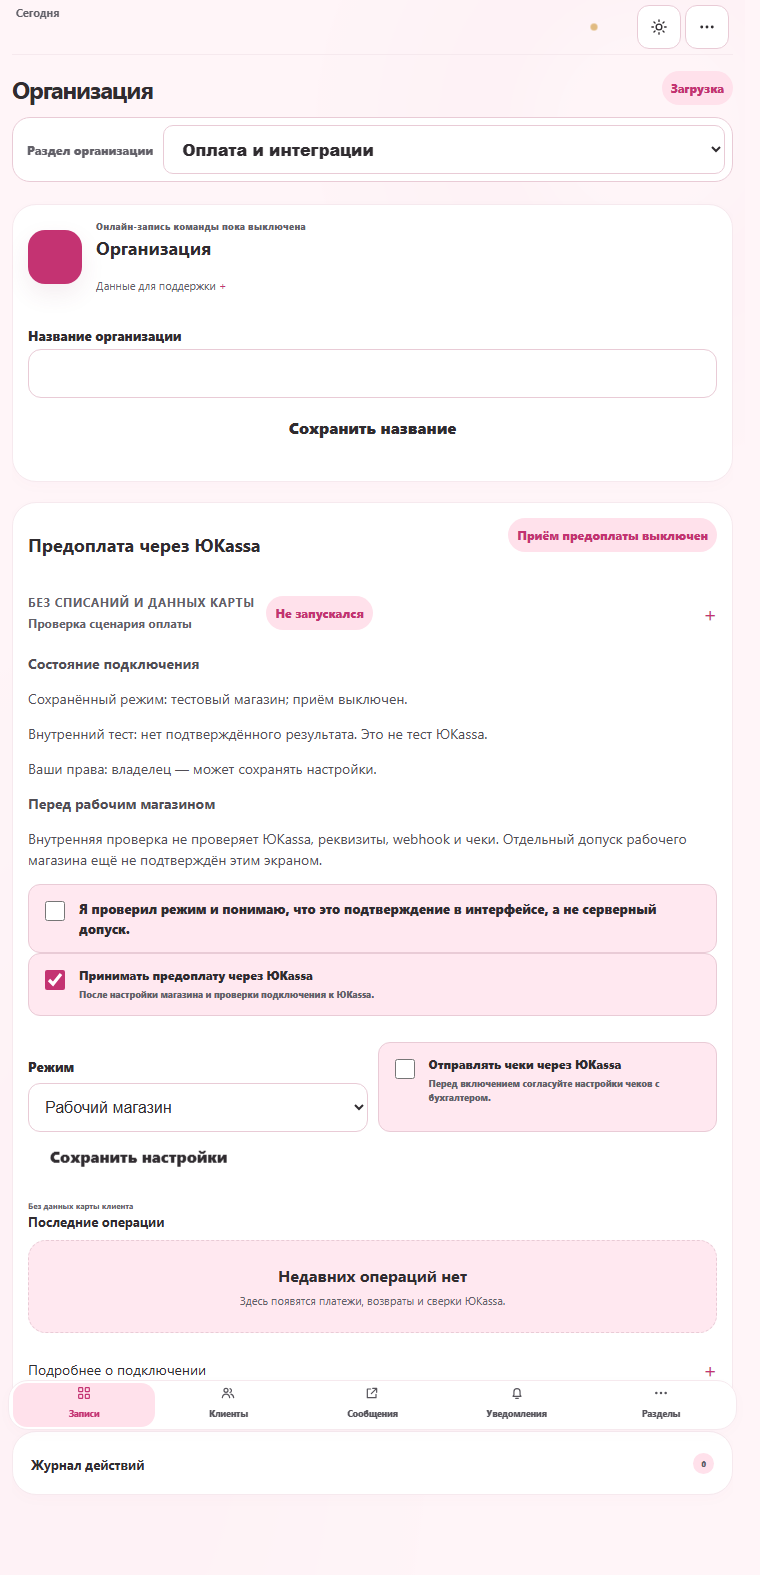
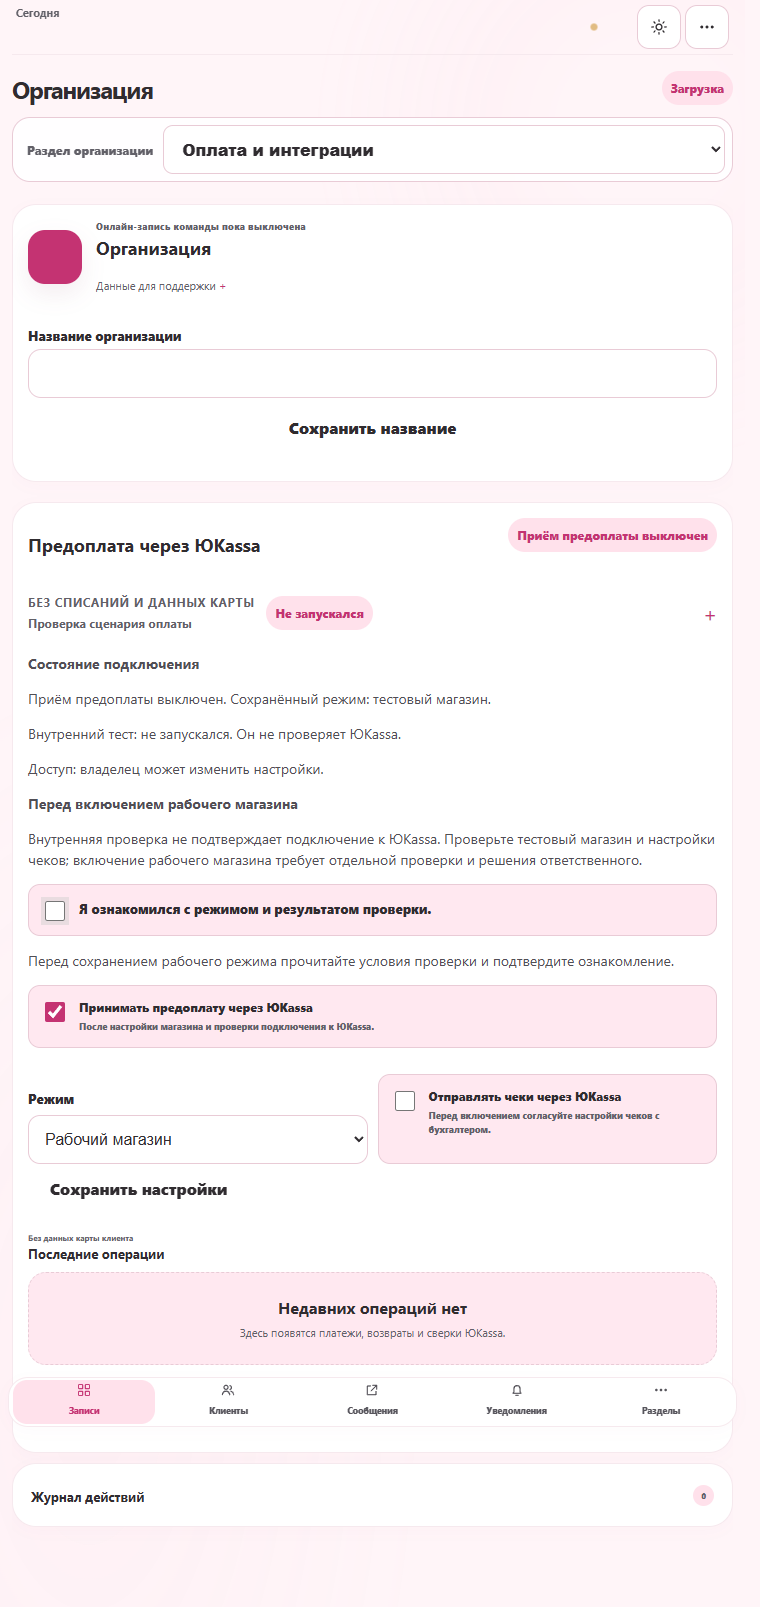
fix(pro): move payment review outside core cache

diff --git a/minuta-online-booking/payment-management.js b/minuta-online-booking/payment-management.js
@@ -483,7 +483,6 @@
           ? 'Не удалось сохранить защиту от повторного запуска. Освободите хранилище браузера и повторите.'
           : sandboxAvailable === false ? 'Контур появится после безопасного обновления базы.'
             : 'Не удалось проверить журнал. Рабочие платежи и записи продолжают работать.';
-        renderPaymentReview();
         return;
       }
       const bookings = sandboxBookings();
@@ -506,7 +505,6 @@
         if ($('#paymentSandboxHelp')) $('#paymentSandboxHelp').textContent = bookings.length
           ? 'Проверка проходит внутри Eldion Pro. ЮKassa и банк не участвуют; клиент не получит уведомление.'
           : 'Нет доступных записей для проверки. Подходят записи текущего специалиста в этой организации, кроме отменённых и блокировок расписания.';
-        renderPaymentReview();
         return;
       }
       const remaining = Number(sandboxState.capturedMinor) - Number(sandboxState.refundedMinor);
@@ -534,7 +532,6 @@
         $('#paymentSandboxRefundAmount').max = minorInputValue(remaining);
         if (!$('#paymentSandboxRefundAmount').value) $('#paymentSandboxRefundAmount').value = minorInputValue(remaining);
       }
-      renderPaymentReview();
     }
     async function loadSandbox() {
       if (!organization?.id || !manager()) return;
@@ -711,29 +708,6 @@
     function refundStatusLabel(value) {
       return ({ creating:'создаётся', pending:'в обработке', succeeded:'выполнено', canceled:'отменено', failed:'ошибка' })[value] || value || '—';
     }
-    function renderPaymentReview() {
-      const form = $('#paymentProviderSettingsForm');
-      if (!form) return;
-      let review = $('#paymentProviderReview');
-      if (!review) {
-        review = document.createElement('section');
-        review.id = 'paymentProviderReview';
-        review.className = 'organization-invite-help';
-        review.setAttribute('aria-live', 'polite');
-        review.innerHTML = '<strong>Состояние подключения</strong><p id="paymentProviderReviewMode"></p><p id="paymentProviderReviewTest"></p><p id="paymentProviderReviewRights"></p><div id="paymentProviderProductionReview" hidden><strong>Перед рабочим магазином</strong><p>Внутренняя проверка не проверяет ЮKassa, реквизиты, webhook и чеки. Отдельный допуск рабочего магазина ещё не подтверждён этим экраном.</p><label class="settings-check"><input id="paymentProviderProductionAcknowledged" type="checkbox"><span>Я проверил режим и понимаю, что это подтверждение в интерфейсе, а не серверный допуск.</span></label></div>';
-        form.before(review);
-      }
-      const settings = payload?.settings || {};
-      $('#paymentProviderReviewMode').textContent = `Сохранённый режим: ${settings.environment === 'production' ? 'рабочий' : 'тестовый'} магазин; приём ${settings.enabled ? 'включён' : 'выключен'}.`;
-      const sandboxResult = sandboxState && sandboxAvailable === true && !sandboxStorageFailed
-        ? sandboxStatusLabel(sandboxState.status)
-        : sandboxReference?.pending ? 'результат проверяется' : 'нет подтверждённого результата';
-      $('#paymentProviderReviewTest').textContent = `Внутренний тест: ${sandboxResult}. Это не тест ЮKassa.`;
-      $('#paymentProviderReviewRights').textContent = `Ваши права: ${owner() ? 'владелец — может сохранять настройки' : 'администратор — просмотр без сохранения настроек'}.`;
-      const productionReview = $('#paymentProviderProductionReview');
-      productionReview.hidden = !owner() || $('#paymentProviderEnvironment')?.value !== 'production';
-      if (productionReview.hidden) $('#paymentProviderProductionAcknowledged').checked = false;
-    }
     function render(error = null) {
       const panel = $('#paymentProviderPanel');
       if (!panel) return;
@@ -838,6 +812,7 @@
       if (event.target.id === 'paymentProviderSettingsForm') {
         event.preventDefault();
         if (!organization || !owner() || busy || !requireWrites()) return;
+        const isCurrent = beginOperation();
         const fiscal = $('#paymentFiscalizationEnabled').checked;
         const expected = {
           enabled:$('#paymentProviderEnabled').checked,
@@ -847,12 +822,6 @@
           vat_code:fiscal ? Number($('#paymentVatCode').value) : null,
           payment_mode:fiscal ? $('#paymentMode').value : null
         };
-        if (expected.environment === 'production' && !$('#paymentProviderProductionAcknowledged')?.checked) {
-          renderPaymentReview();
-          notify('Перед сохранением рабочего режима прочитайте review и подтвердите его. Внутренний тест не подтверждает готовность ЮKassa.');
-          return;
-        }
-        const isCurrent = beginOperation();
         try {
           const result = await db.rpc('set_minuta_yookassa_settings', {
             p_organization:organization.id,
@@ -992,7 +961,6 @@
     }
     function change(event) {
       if (event.target.id === 'paymentFiscalizationEnabled' || event.target.id === 'paymentRefundAttempt') updateRefundAmount();
-      if (event.target.id === 'paymentProviderEnvironment') renderPaymentReview();
       if (event.target.id === 'paymentSandboxBooking') {
         const booking = sandboxBookings().find(item => item.id === event.target.value);
         if ($('#paymentSandboxAmount')) $('#paymentSandboxAmount').value = String(Math.max(1, booking?.totalPriceRub || 1));

diff --git a/minuta-online-booking/payment-review.js b/minuta-online-booking/payment-review.js
@@ -1,0 +1,59 @@
+(function () {
+  'use strict';
+
+  function init() {
+    const panel = document.querySelector('#paymentProviderPanel');
+    const form = document.querySelector('#paymentProviderSettingsForm');
+    const workspace = document.querySelector('#paymentProviderWorkspace');
+    const environment = document.querySelector('#paymentProviderEnvironment');
+    const providerState = document.querySelector('#paymentProviderState');
+    const sandboxState = document.querySelector('#paymentSandboxState');
+    if (!panel || !form || !workspace || !environment || !providerState || !sandboxState) return;
+
+    const review = document.createElement('section');
+    review.id = 'paymentProviderReview';
+    review.className = 'organization-invite-help';
+    review.setAttribute('aria-live', 'polite');
+    review.innerHTML = '<strong>Состояние подключения</strong><p id="paymentProviderReviewMode"></p><p id="paymentProviderReviewTest"></p><p id="paymentProviderReviewRights"></p><div id="paymentProviderProductionReview" hidden><strong>Перед включением рабочего магазина</strong><p>Внутренняя проверка не подтверждает подключение к ЮKassa. Проверьте тестовый магазин и настройки чеков; включение рабочего магазина требует отдельной проверки и решения ответственного.</p><label class="settings-check"><input id="paymentProviderProductionAcknowledged" type="checkbox"><span>Я ознакомился с режимом и результатом проверки.</span></label><p id="paymentProviderReviewNotice" role="status"></p></div>';
+    form.before(review);
+    const mode = review.querySelector('#paymentProviderReviewMode');
+    const test = review.querySelector('#paymentProviderReviewTest');
+    const rights = review.querySelector('#paymentProviderReviewRights');
+    const production = review.querySelector('#paymentProviderProductionReview');
+    const acknowledged = review.querySelector('#paymentProviderProductionAcknowledged');
+    const notice = review.querySelector('#paymentProviderReviewNotice');
+    let savedEnvironment = environment.value;
+
+    function render() {
+      review.hidden = panel.hidden || workspace.hidden;
+      if (review.hidden) { acknowledged.checked = false; notice.textContent = ''; return; }
+      const savedMode = savedEnvironment === 'production' ? 'рабочий' : 'тестовый';
+      mode.textContent = `${providerState.textContent.trim()}. Сохранённый режим: ${savedMode} магазин.`;
+      test.textContent = `Внутренний тест: ${sandboxState.textContent.trim().toLowerCase() || 'нет результата'}. Он не проверяет ЮKassa.`;
+      rights.textContent = form.hidden
+        ? 'Доступ: администратор может просматривать; изменить настройки может владелец.'
+        : 'Доступ: владелец может изменить настройки.';
+      production.hidden = form.hidden || environment.value !== 'production';
+      if (production.hidden) { acknowledged.checked = false; notice.textContent = ''; }
+    }
+
+    new MutationObserver(() => { savedEnvironment = environment.value; acknowledged.checked = false; render(); })
+      .observe(providerState, { childList:true, characterData:true, subtree:true });
+    new MutationObserver(render).observe(sandboxState, { childList:true, characterData:true, subtree:true });
+    new MutationObserver(render).observe(form, { attributes:true, attributeFilter:['hidden'] });
+    new MutationObserver(render).observe(panel, { attributes:true, attributeFilter:['hidden'] });
+    new MutationObserver(render).observe(workspace, { attributes:true, attributeFilter:['hidden'] });
+    environment.addEventListener('change', render);
+    document.addEventListener('submit', event => {
+      if (event.target !== form || environment.value !== 'production' || acknowledged.checked) return;
+      event.preventDefault();
+      event.stopImmediatePropagation();
+      notice.textContent = 'Перед сохранением рабочего режима прочитайте условия проверки и подтвердите ознакомление.';
+      acknowledged.focus();
+    }, true);
+    render();
+  }
+
+  if (document.readyState === 'loading') document.addEventListener('DOMContentLoaded', init, { once:true });
+  else init();
+})();

diff --git a/outputs/payments-access/CANDIDATE.md b/outputs/payments-access/CANDIDATE.md
@@ -2,13 +2,14 @@
 
 ## Область
 
-- `payment-management.js`: на экране «Оплата и интеграции» показываются сохранённый режим и состояние приёма, подтверждённый результат **внутреннего** теста и текущие права. Выбор рабочего магазина раскрывает review, прямо отделяющий внутреннюю проверку от ЮKassa, реквизитов, webhook и чеков. Без подтверждения review форма не вызывает записывающий RPC. Это UI-предохранитель, не серверный production-gate.
-- `integration.patch`: точечная правка `provider.html` для «Настройки → Тариф». Существующие будущие цены, лимиты и условия сохраняются внутри раскрываемого блока; рядом явно сказано, что они сейчас не применяются, а текущий доступ действует без выбора тарифа и оплаты. Патч **не применён** исполнителем: `provider.html` принадлежит интегратору.
+- `payment-review.js`: отдельный модуль на экране «Оплата и интеграции» показывает сохранённый режим и состояние приёма, результат **внутренней** проверки и текущие права. Выбор рабочего магазина раскрывает условия проверки. Без подтверждения ознакомления форма не вызывает записывающий RPC. Это предохранитель интерфейса, не серверная проверка готовности.
+- `integration.patch`: точечная правка `provider.html` и `sw.js` для подключения модуля как optional asset и уточнения раздела «Настройки → Тариф». Существующие будущие цены, лимиты и условия сохраняются внутри раскрываемого блока; рядом явно сказано, что они сейчас не применяются. Патч **не применён** исполнителем: оба файла принадлежат интегратору.
+- `payment-management.js` в итоговом дереве совпадает с базой. Core precache на базе ветки 3 792 313 байт; HTML-часть патча добавляет 173 байта, ожидается 3 792 486 при неизменных остальных core-файлах (лимит 3 792 565). После интеграции замерить фактический общий пакет.
 
 ## Проверено
 
 - Живой baseline v1043, Pink Porcelain/capsule, фактическая ширина 621: предоплата выключена, тестовый магазин, внутренний тест не запускался, операций нет. Снимок у координатора: `outputs/parallel-baselines/payments-before-v1043.png`. Рабочих действий не выполняли.
-- Изолированный browser на синтетической организации: 390/621/760/1440, реальные клики по селектору рабочего магазина и кнопке сохранения, 0 записывающих RPC и 0 внешних вызовов; снимки `screenshots/payment-default-*.png`, `screenshots/payment-review-*.png`. Нет горизонтального переполнения. 621 сопоставим с live baseline. Это не живая приёмка.
+- Изолированный browser на синтетической организации: 390/621/760/1440, реальные клики по селектору рабочего магазина и кнопке сохранения, 0 записывающих RPC и 0 внешних вызовов; снимки `screenshots/payment-default-*.png`, `screenshots/payment-review-*.png`. Нет горизонтального переполнения. При ошибке загрузки режим не показывается как проверенный; подтверждение сбрасывается при смене организации и сессии. 621 сопоставим с live baseline. Это не живая приёмка.
 - Старый sandbox browser: 390/760/1440 PASS в Chrome; state-machine 5/5 PASS. `client-url-redirect-test.mjs` PASS, `git diff --check` PASS, `git apply --check integration.patch` PASS. CI и итоговое объединённое дерево проверяет координатор.
 
 ## Визуальная оценка 0–10
